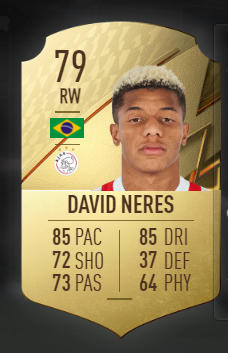
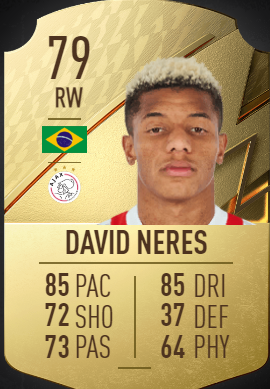
blanco y negro

diff --git a/Menu.py b/Menu.py
@@ -1,33 +1,34 @@
 from cgi import print_arguments
 from cgitb import text
+from tkinter import image_names
 from turtle import bgcolor
 import cv2
 import os
 import pytesseract
 pytesseract.pytesseract.tesseract_cmd = r"C:\Users\Prestamo\AppData\Local\Programs\Tesseract-OCR\tesseract"
 #ruta="./Fotos Proyecto Inteligentes/"
-clahe=cv2.createCLAHE(clipLimit=0.5,tileGridSize=(20,20))
+clahe=cv2.createCLAHE(clipLimit=3.5,tileGridSize=(10,10))
 
 f = open("./imagenes.txt", "r")
+print(pytesseract.get_languages(config=''))
 for i in f:
     ruta=""
     cadena=str(i)
     cadena=cadena.replace("\n","")
     ruta="./Fotos Proyecto Inteligentes/"+cadena
-    print(ruta)
+    print(ruta)      
     image= cv2.imread(ruta)
     imageC=cv2.cvtColor(image,cv2.COLOR_BGR2GRAY)
-    imageE=cv2.equalizeHist(imageC)
-    imageD=clahe.apply(imageE)
-    texto=pytesseract.image_to_string(imageD)
+    (thresh,negro)=cv2.threshold(imageC,127,255,cv2.THRESH_BINARY)
+    #imageE=cv2.equalizeHist(negro)
+    #imageD=clahe.apply(imageE)
+    
+    texto=pytesseract.image_to_string(negro,lang="eng")
     print (texto)    
-    cv2.imshow("image: ", imageD)
-    cv2.waitKey(0)
-    cv2.destroyAllWindows()    
+    #cv2.imshow("image: ", negro) 
+    #cv2.waitKey(0)
+    #cv2.destroyAllWindows()    
 f.close
-
-
-
 #cv2.imshow("image: ", imageD)
 #cv2.waitKey(0)
 #cv2.destroyAllWindows()
